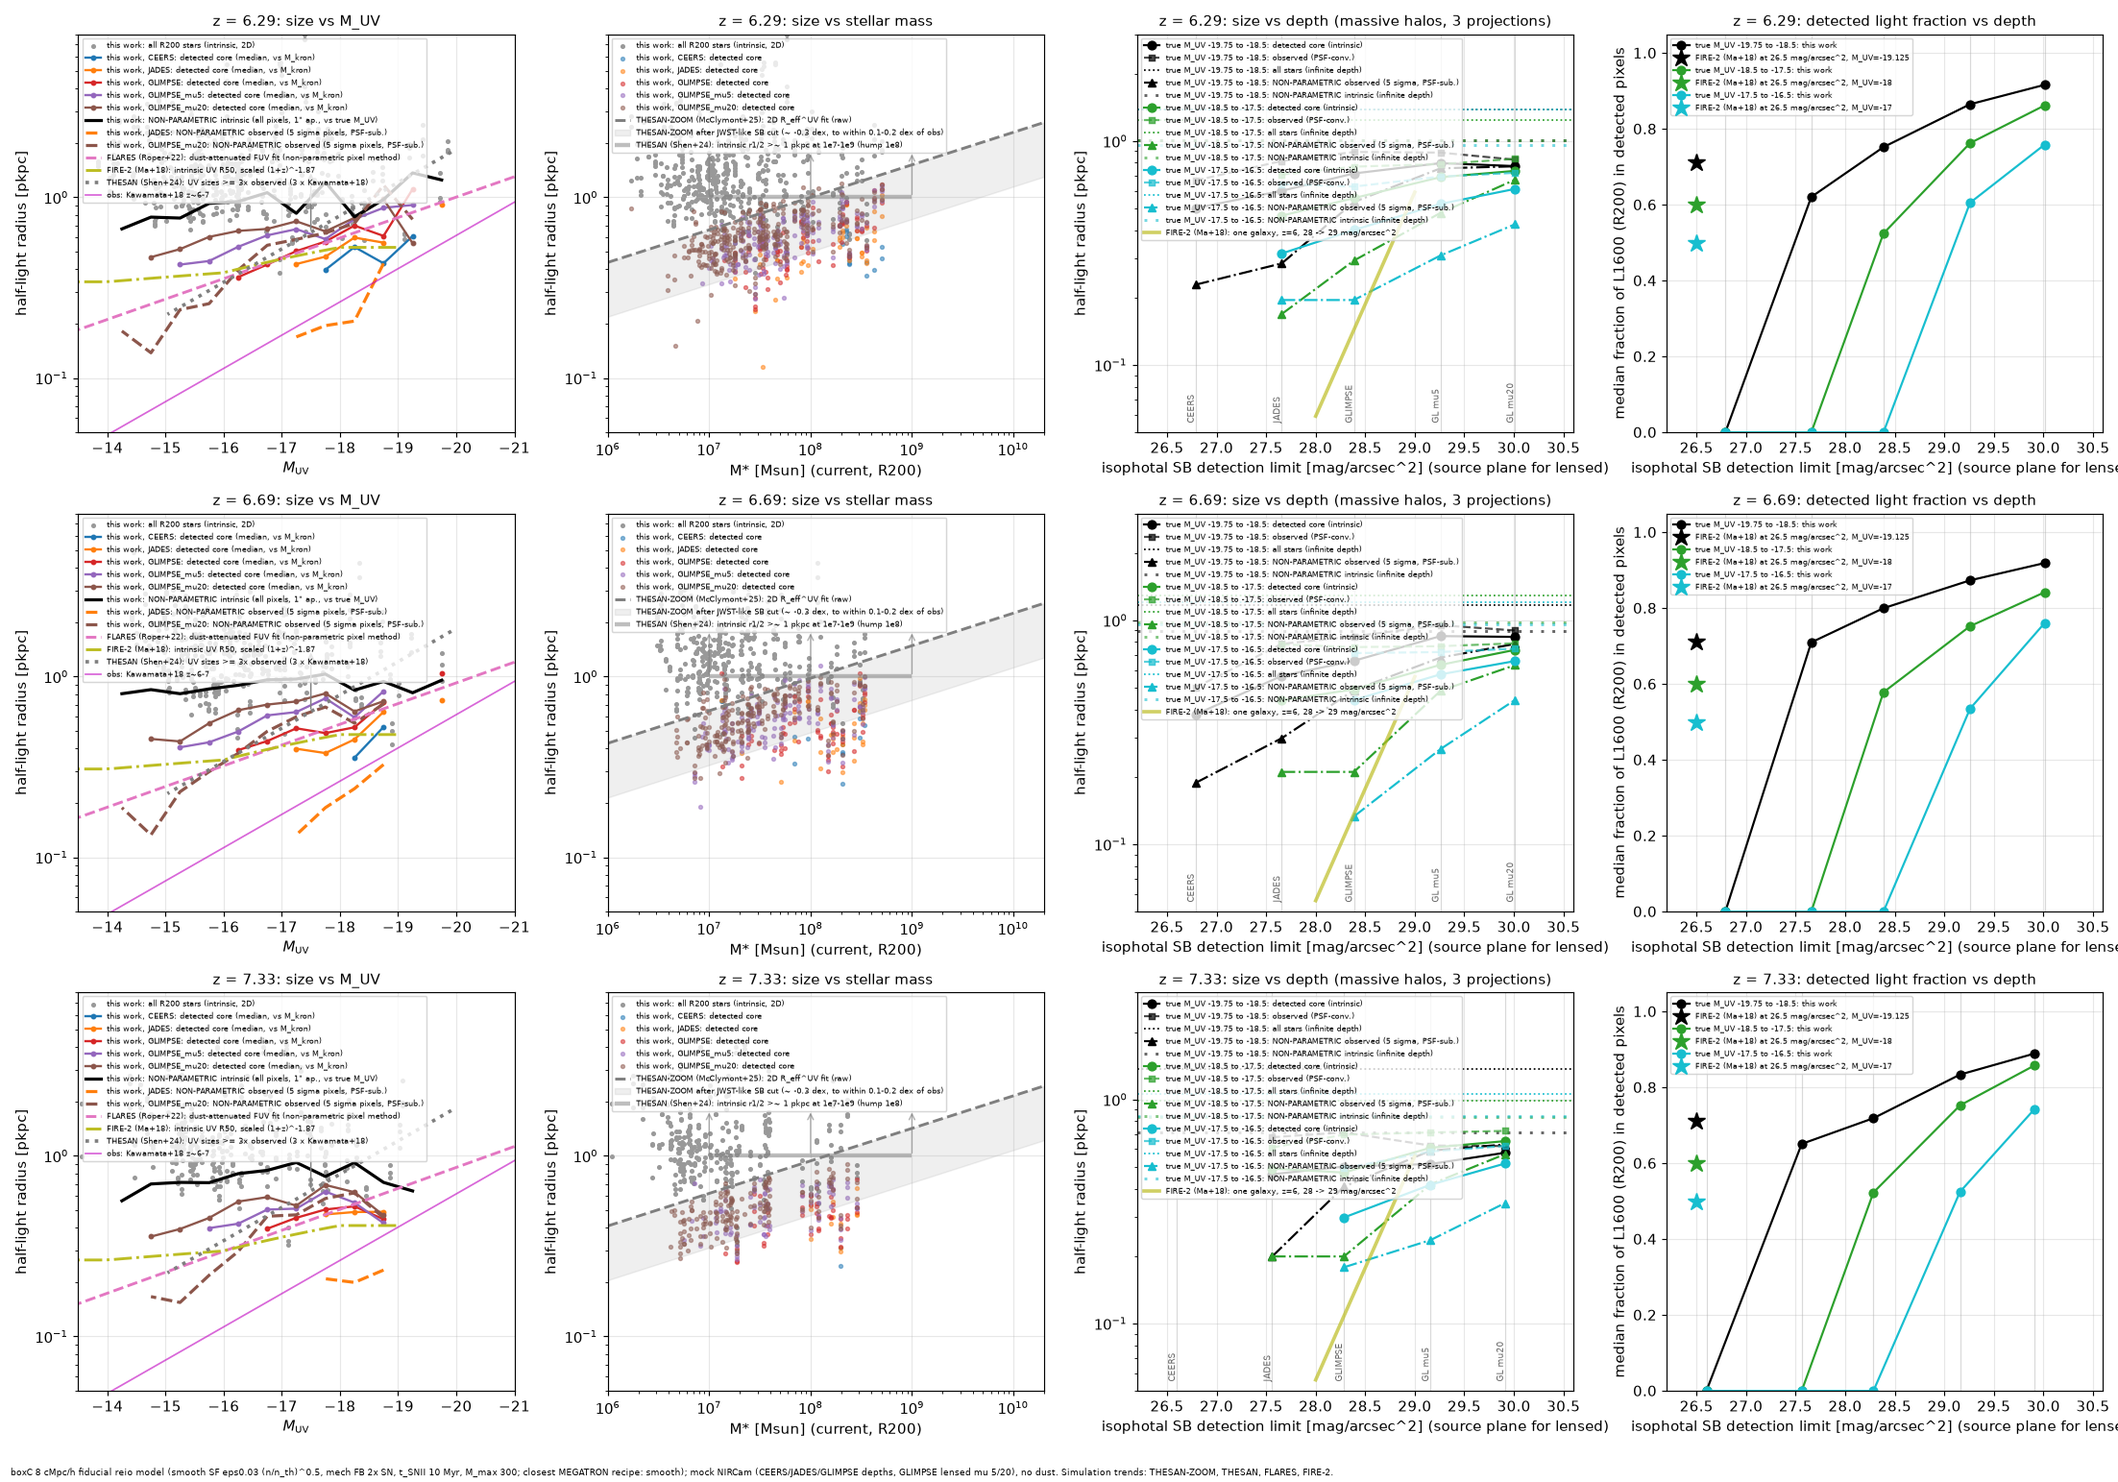
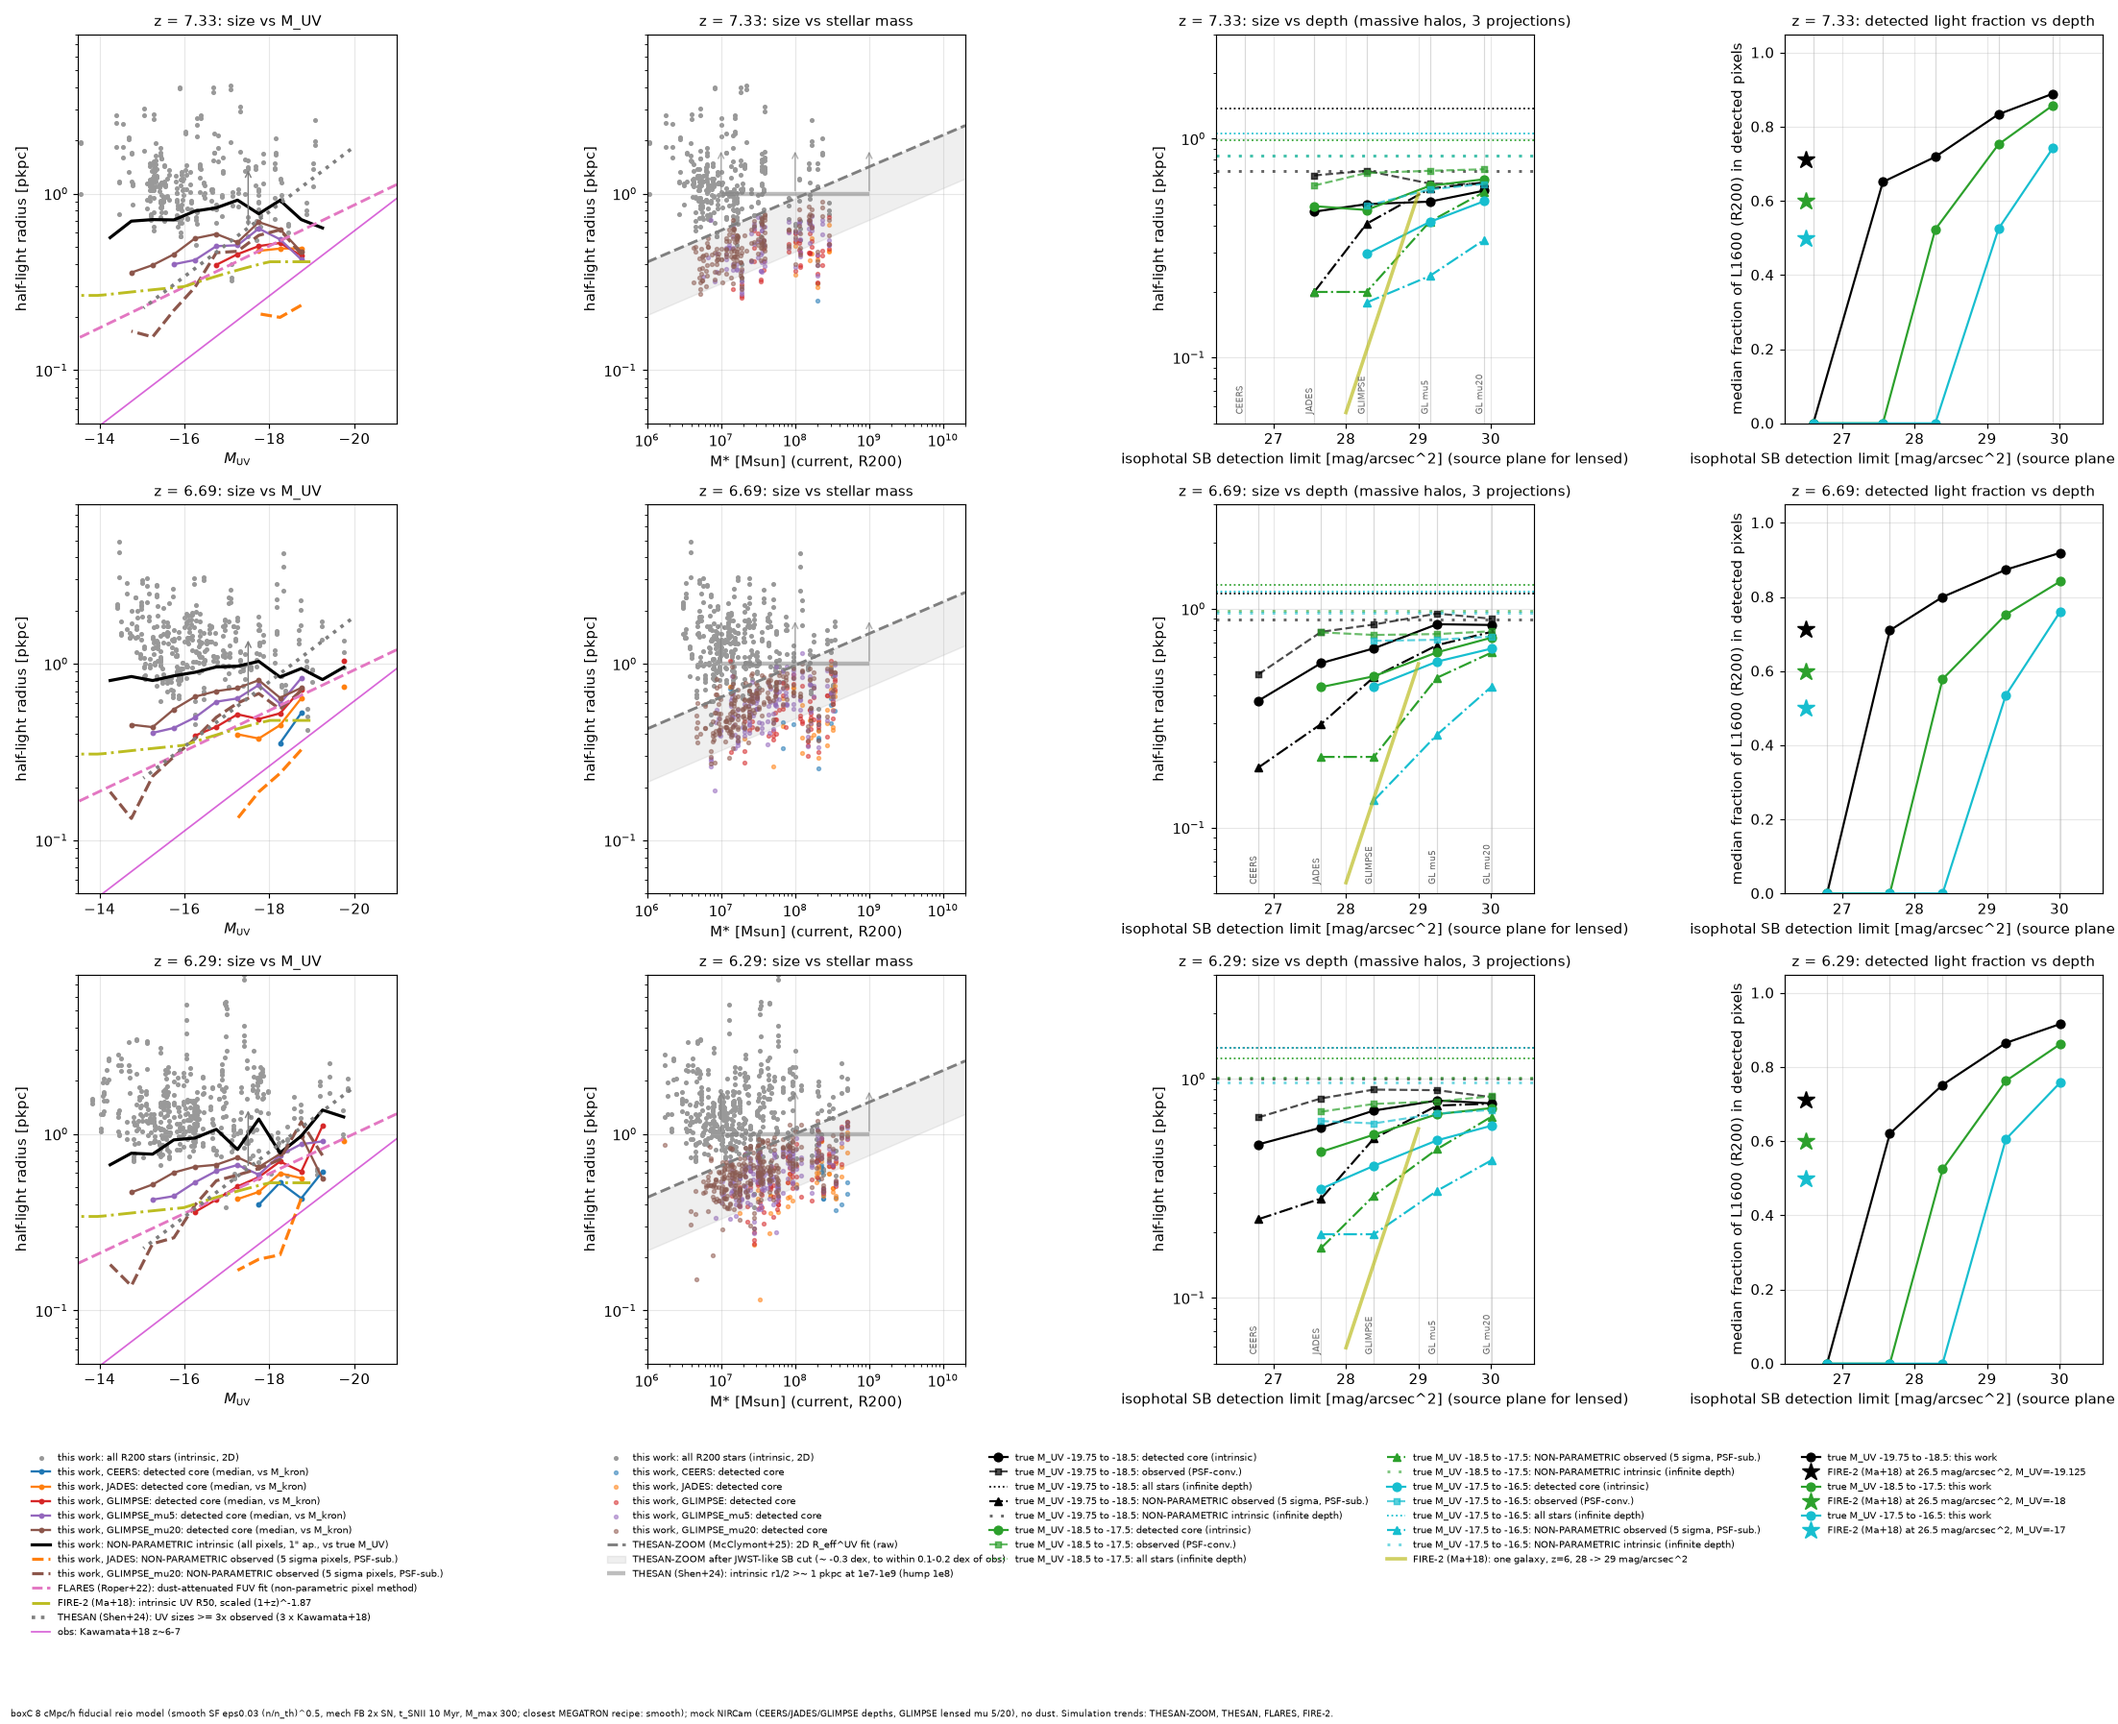
boxC mock size figures: legends moved to dedicated panels
Claude-Session: https://claude.ai/code/session_0169cn41o49pid7juTpry645

diff --git a/comparisons/boxC_lf_postproc/scripts/mock_simcomp.py b/comparisons/boxC_lf_postproc/scripts/mock_simcomp.py
@@ -34,7 +34,8 @@ def fire2(M, z):
 def kawamata18(M):
     return 0.94 * 10 ** (-0.4 * (M + 21) * 0.46)
 
-fig, axs = plt.subplots(len(its), 4, figsize=(21, 4.9 * len(its)), squeeze=False)
+fig = plt.figure(figsize=(21, 4.9 * len(its) + 2.4)); gs = fig.add_gridspec(len(its) + 1, 4, height_ratios=[4.9] * len(its) + [2.4])
+axs = np.array([[fig.add_subplot(gs[r, c]) for c in range(4)] for r in range(len(its))]); lax = [fig.add_subplot(gs[-1, c]) for c in range(4)]
 txt = open(out.replace(".png", ".txt"), "w")
 for row, it in zip(axs, its):
     d = np.load(f"{NPZ}/boxC_iter{it}.npz", allow_pickle=True)
@@ -88,7 +89,7 @@ for row, it in zip(axs, its):
         ax.annotate("", xy=(xm, 1.8), xytext=(xm, 1.0), arrowprops=dict(arrowstyle="->", color="C7", alpha=0.6))
     ax.set_xscale("log"); ax.set_xlim(1e6, 2e10); ax.set_xlabel("M* [Msun] (current, R200)"); ax.set_title(f"z = {z:.2f}: size vs stellar mass", fontsize=10)
     for ax in row[:2]:
-        ax.set_yscale("log"); ax.set_ylim(0.05, 8); ax.set_ylabel("half-light radius [pkpc]"); ax.grid(alpha=0.3); ax.legend(fontsize=5.5, loc="upper left")
+        ax.set_yscale("log"); ax.set_ylim(0.05, 8); ax.set_ylabel("half-light radius [pkpc]"); ax.grid(alpha=0.3)
     # (c) size - depth, (d) detected light fraction - depth
     order = [sv for sv, _ in SUR if sv in H]; x = np.array([SB[sv] for sv in order])
     txt.write(f"== z = {z:.3f}; isophotal SB limits: " + ", ".join(f"{sv} {SB[sv]:.2f}" for sv in order) + "\n")
@@ -123,10 +124,13 @@ for row, it in zip(axs, its):
     row[2].set_yscale("log"); row[2].set_ylim(0.05, 3); row[2].set_ylabel("half-light radius [pkpc]")
     row[3].set_ylim(0, 1.05); row[3].set_ylabel("median fraction of L1600 (R200) in detected pixels")
     for a in row[2:]:
-        a.set_xlabel("isophotal SB detection limit [mag/arcsec^2] (source plane for lensed)"); a.grid(alpha=0.3); a.legend(fontsize=5.5, loc="upper left")
+        a.set_xlabel("isophotal SB detection limit [mag/arcsec^2] (source plane for lensed)"); a.grid(alpha=0.3)
         a.set_xlim(26.2, 30.6)
     row[2].set_title(f"z = {z:.2f}: size vs depth (massive halos, 3 projections)", fontsize=10)
     row[3].set_title(f"z = {z:.2f}: detected light fraction vs depth", fontsize=10)
+for c, la in enumerate(lax):
+    la.axis("off"); h_, l_ = axs[0, c].get_legend_handles_labels()
+    la.legend(h_, l_, loc="upper center", fontsize=6.6, frameon=False, ncol=2 if len(l_) > 14 else 1)
 fig.text(0.005, 0.003, "boxC 8 cMpc/h fiducial reio model (smooth SF eps0.03 (n/n_th)^0.5, mech FB 2x SN, t_SNII 10 Myr, M_max 300; closest MEGATRON "
          "recipe: smooth); mock NIRCam (CEERS/JADES/GLIMPSE depths, GLIMPSE lensed mu 5/20), no dust. Simulation trends: THESAN-ZOOM, THESAN, FLARES, FIRE-2.",
          fontsize=6.5, ha="left", va="bottom")

diff --git a/comparisons/boxC_lf_postproc/scripts/mock_plots.py b/comparisons/boxC_lf_postproc/scripts/mock_plots.py
@@ -113,7 +113,8 @@ fig.text(0.005, 0.003, TITLE, fontsize=6.5, ha="left", va="bottom")
 fig.tight_layout(rect=(0, 0.02, 1, 1)); fig.savefig(pre + "_halos.png", dpi=110); plt.close(fig)
 
 # (3) sizes
-fig, axs = plt.subplots(1, len(its), figsize=(6.5 * len(its), 5), squeeze=False); axs = axs[0]
+fig = plt.figure(figsize=(6.5 * len(its), 6.6)); gs = fig.add_gridspec(2, len(its), height_ratios=[5, 1.2])
+axs = [fig.add_subplot(gs[0, j]) for j in range(len(its))]; lax = fig.add_subplot(gs[1, :]); lax.axis("off")
 for ax, it in zip(axs, its):
     z = zs[it]; Mg = np.linspace(-22, -13, 50)
     for sv, col in SUR:
@@ -134,12 +135,12 @@ for ax, it in zip(axs, its):
     ax.plot(Mg, ono25(Mg, z), ":", color="k", lw=1.8, label="Ono+25 z~10-13 fit scaled to this z with (1+z)^-1.28 (extrapolated)")
     ap = 1 / (1 + z)
     for f, ls, lab in ((1, ":", "finest cell dx"), (4, "-.", "4 dx (effective resolution)")):
-        ax.axhline(f * DXMIN_C * ap, color="0.4", ls=ls, lw=1, label=f"sim {lab} = {f * DXMIN_C * ap:.2f} pkpc")
+        ax.axhline(f * DXMIN_C * ap, color="0.4", ls=ls, lw=1, label=f"sim {lab} ({DXMIN_C:.2f} ckpc" + (")" if f == 1 else " x 4)"))
     sc = {6.69: 5.56, 7.33: 5.26}.get(round(z, 2), 5.4)
     ax.axhline(0.5 * (0.040 if z < 7 else 0.050) * sc, color="C2", ls=":", lw=1.2, label="NIRCam PSF HWHM")
     ax.set_yscale("log"); ax.set_ylim(0.05, 10); ax.set_xlim(-12.5, -21.5); ax.grid(alpha=0.3)
     ax.set_xlabel(r"$M_{\rm UV}$"); ax.set_ylabel("half-light radius [pkpc]"); ax.set_title(f"z = {z:.2f}: sizes of Mh >= 10^9.5 halos (3 projections)", fontsize=9)
-    ax.legend(fontsize=5.5, loc="upper right")
+h_, l_ = axs[0].get_legend_handles_labels(); lax.legend(h_, l_, loc="upper center", ncol=3, fontsize=7.5, frameon=False)
 fig.text(0.005, 0.003, TITLE, fontsize=6.5, ha="left", va="bottom")
 fig.tight_layout(rect=(0, 0.025, 1, 1)); fig.savefig(pre + "_sizes.png", dpi=110); plt.close(fig)
 print("wrote", pre + "_lf.png", pre + "_halos.png", pre + "_sizes.png", pre + ".txt")
